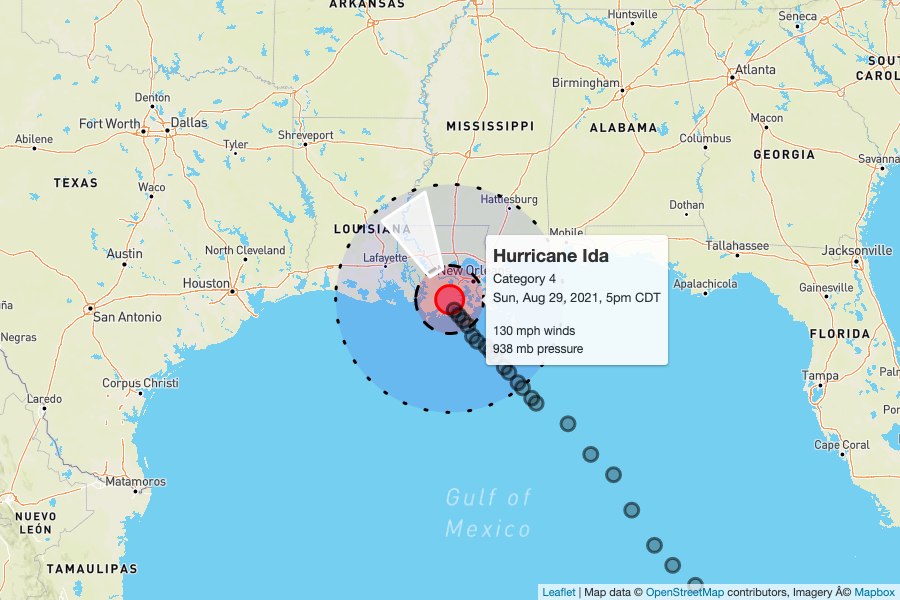
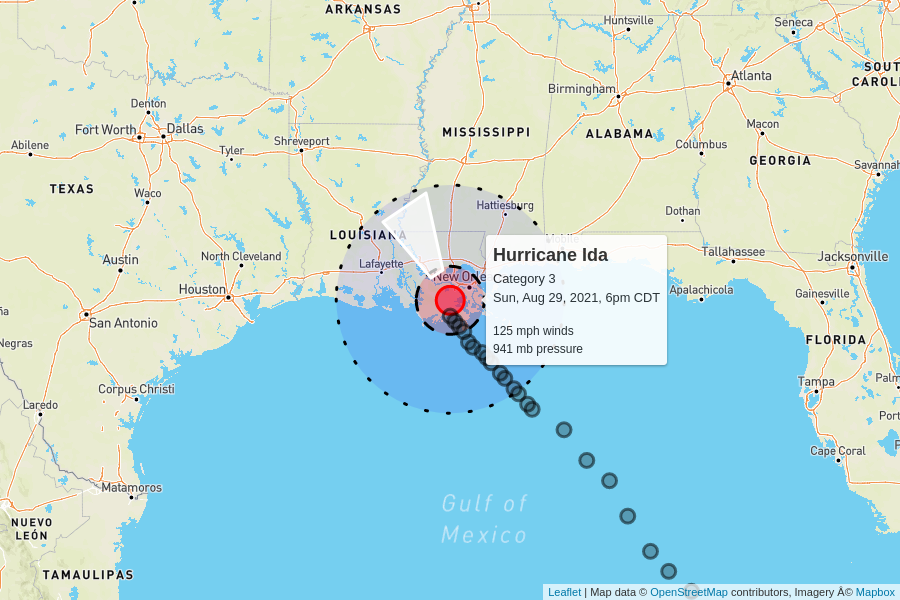
automatic update

diff --git a/docs/index.html b/docs/index.html
@@ -92,10 +92,10 @@
 
     <table>
       <tr>
-        <td colspan="6" class="storm category-4">
+        <td colspan="6" class="storm category-3">
           <h2>
-            Hurricane Ida - Category 4
-            <p class="updated">last updated <span data-time>2021-08-29T22:00:00.000Z</span></p>
+            Hurricane Ida - Category 3
+            <p class="updated">last updated <span data-time>2021-08-29T23:00:00.000Z</span></p>
           </h2>
         </td>
       </tr>
@@ -110,8 +110,8 @@
       </tr>
       <tr>
         <td class="spacer"></td>
-        <td>130 mph</td>
-        <td>938 mb</td>
+        <td>125 mph</td>
+        <td>941 mb</td>
         <td>
           10 mph to the north-northwest
           <br/>
